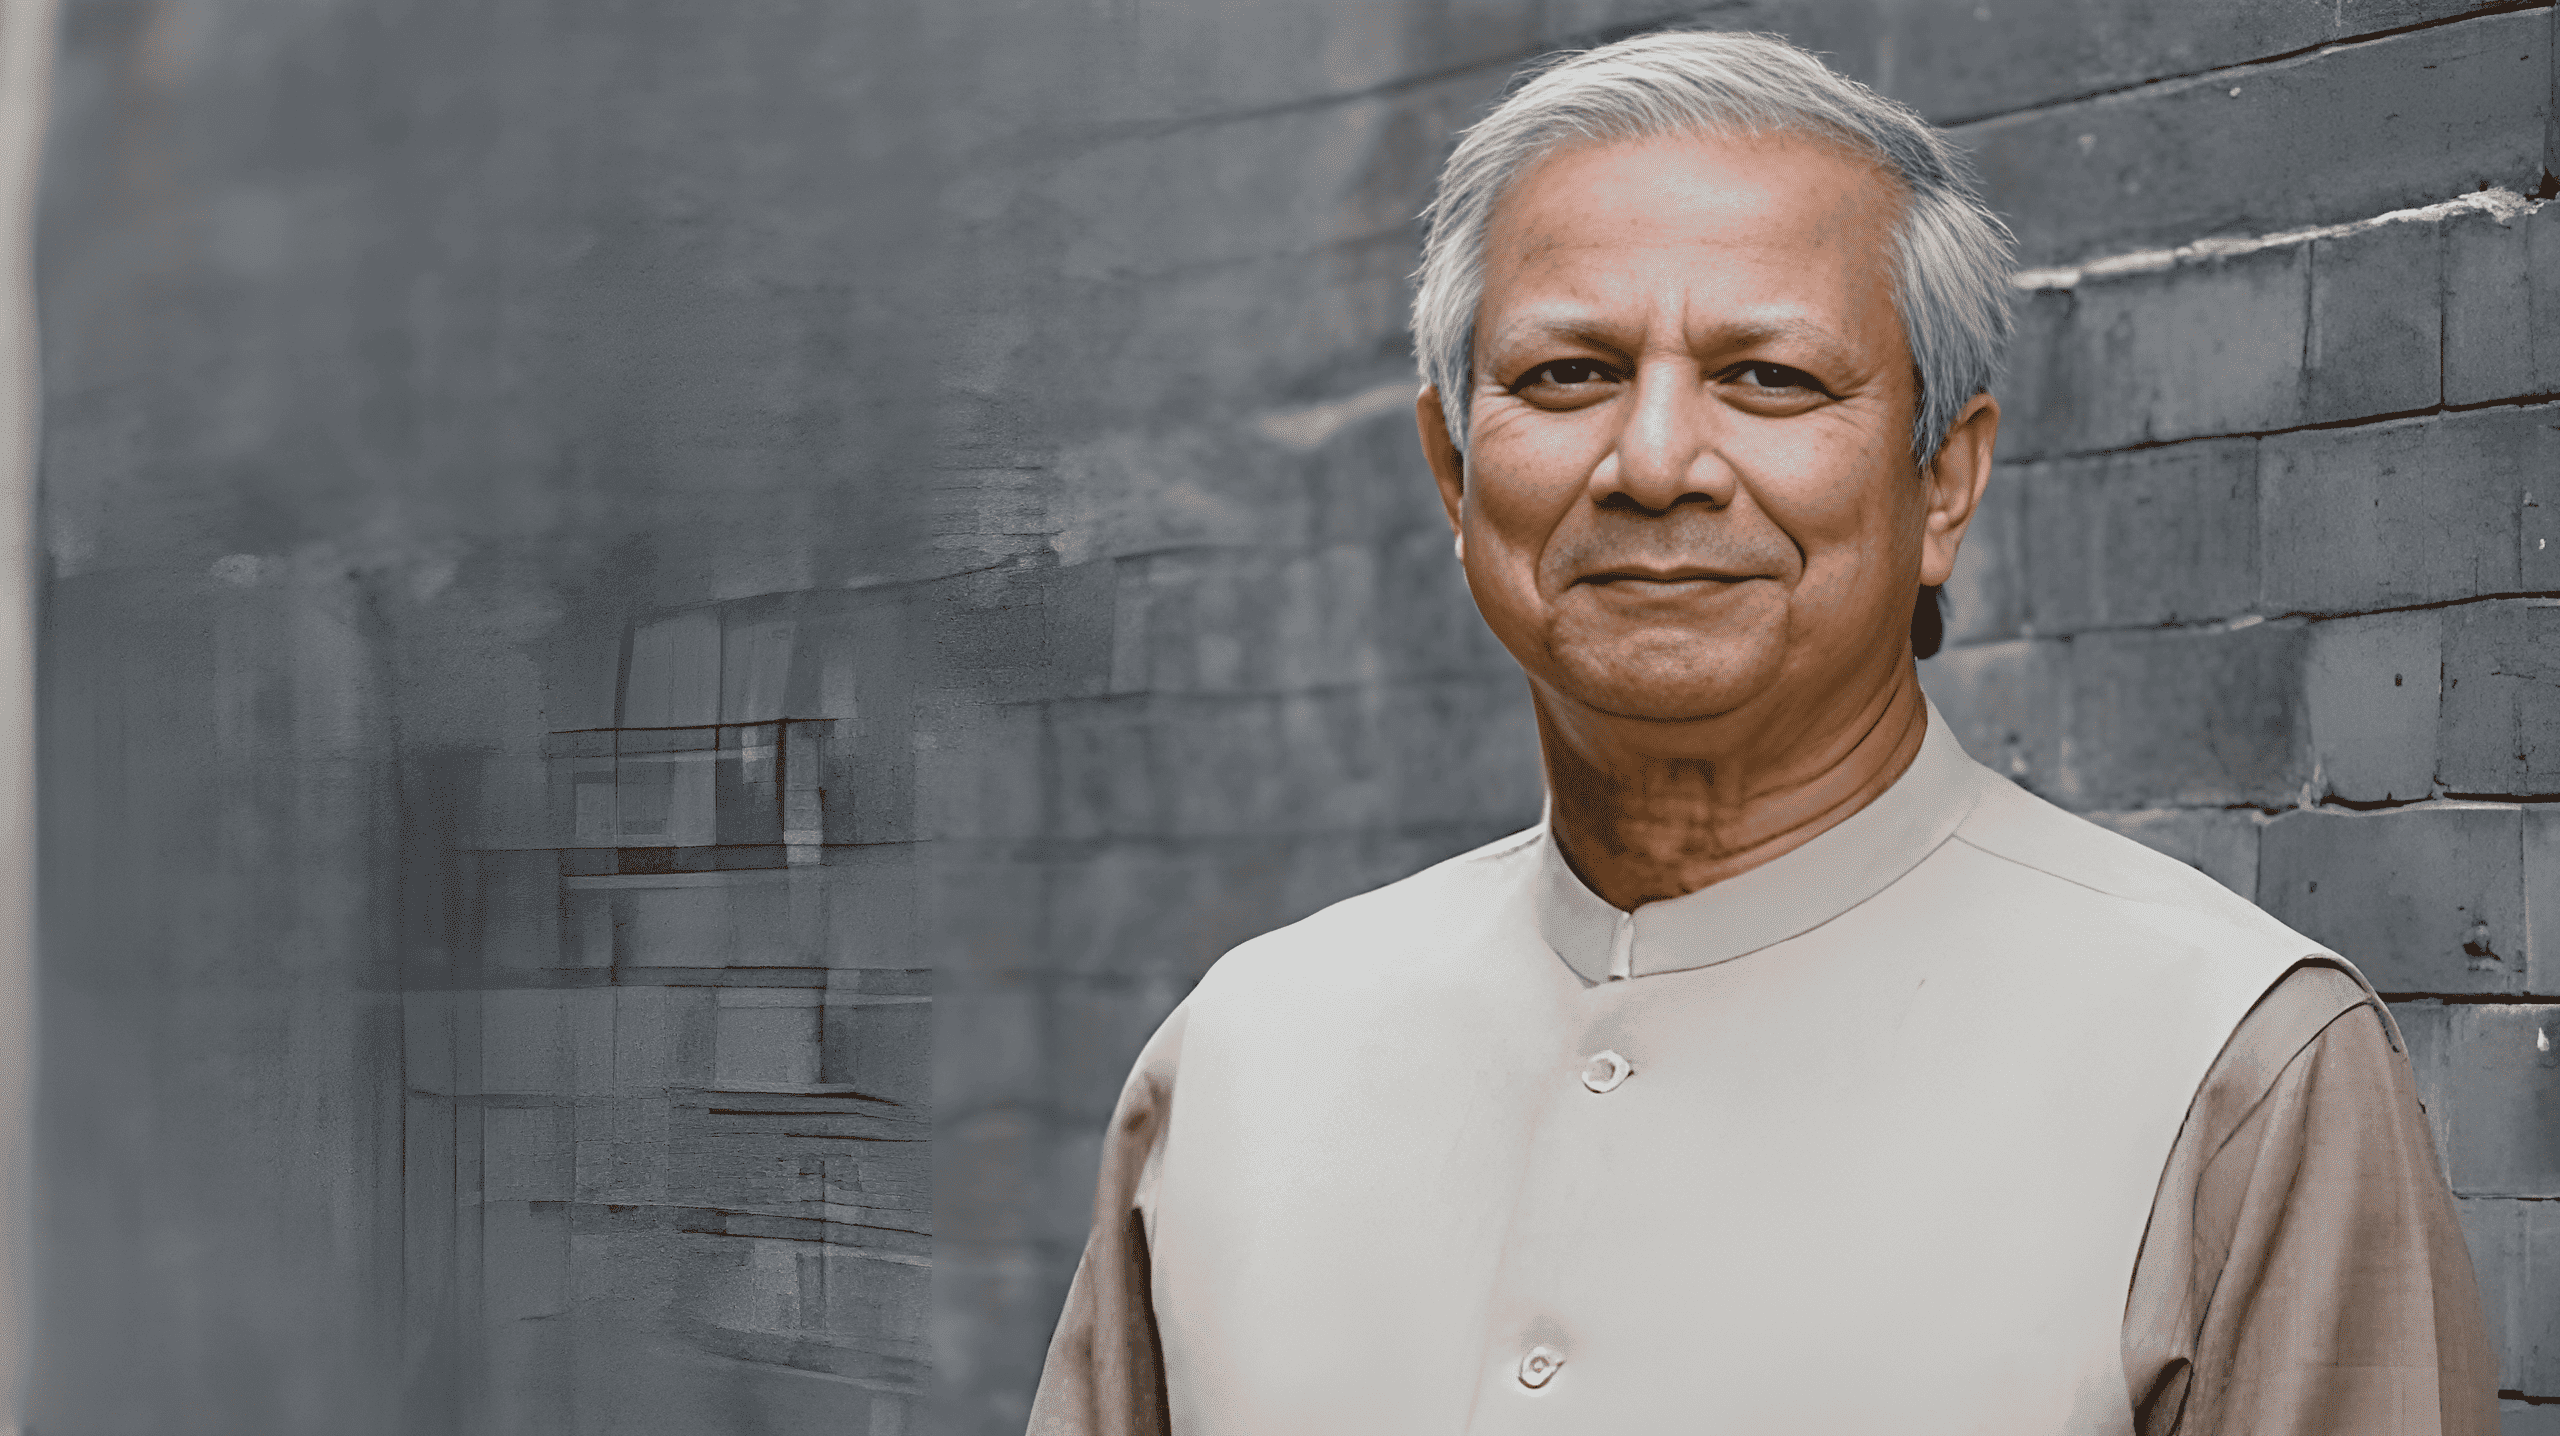
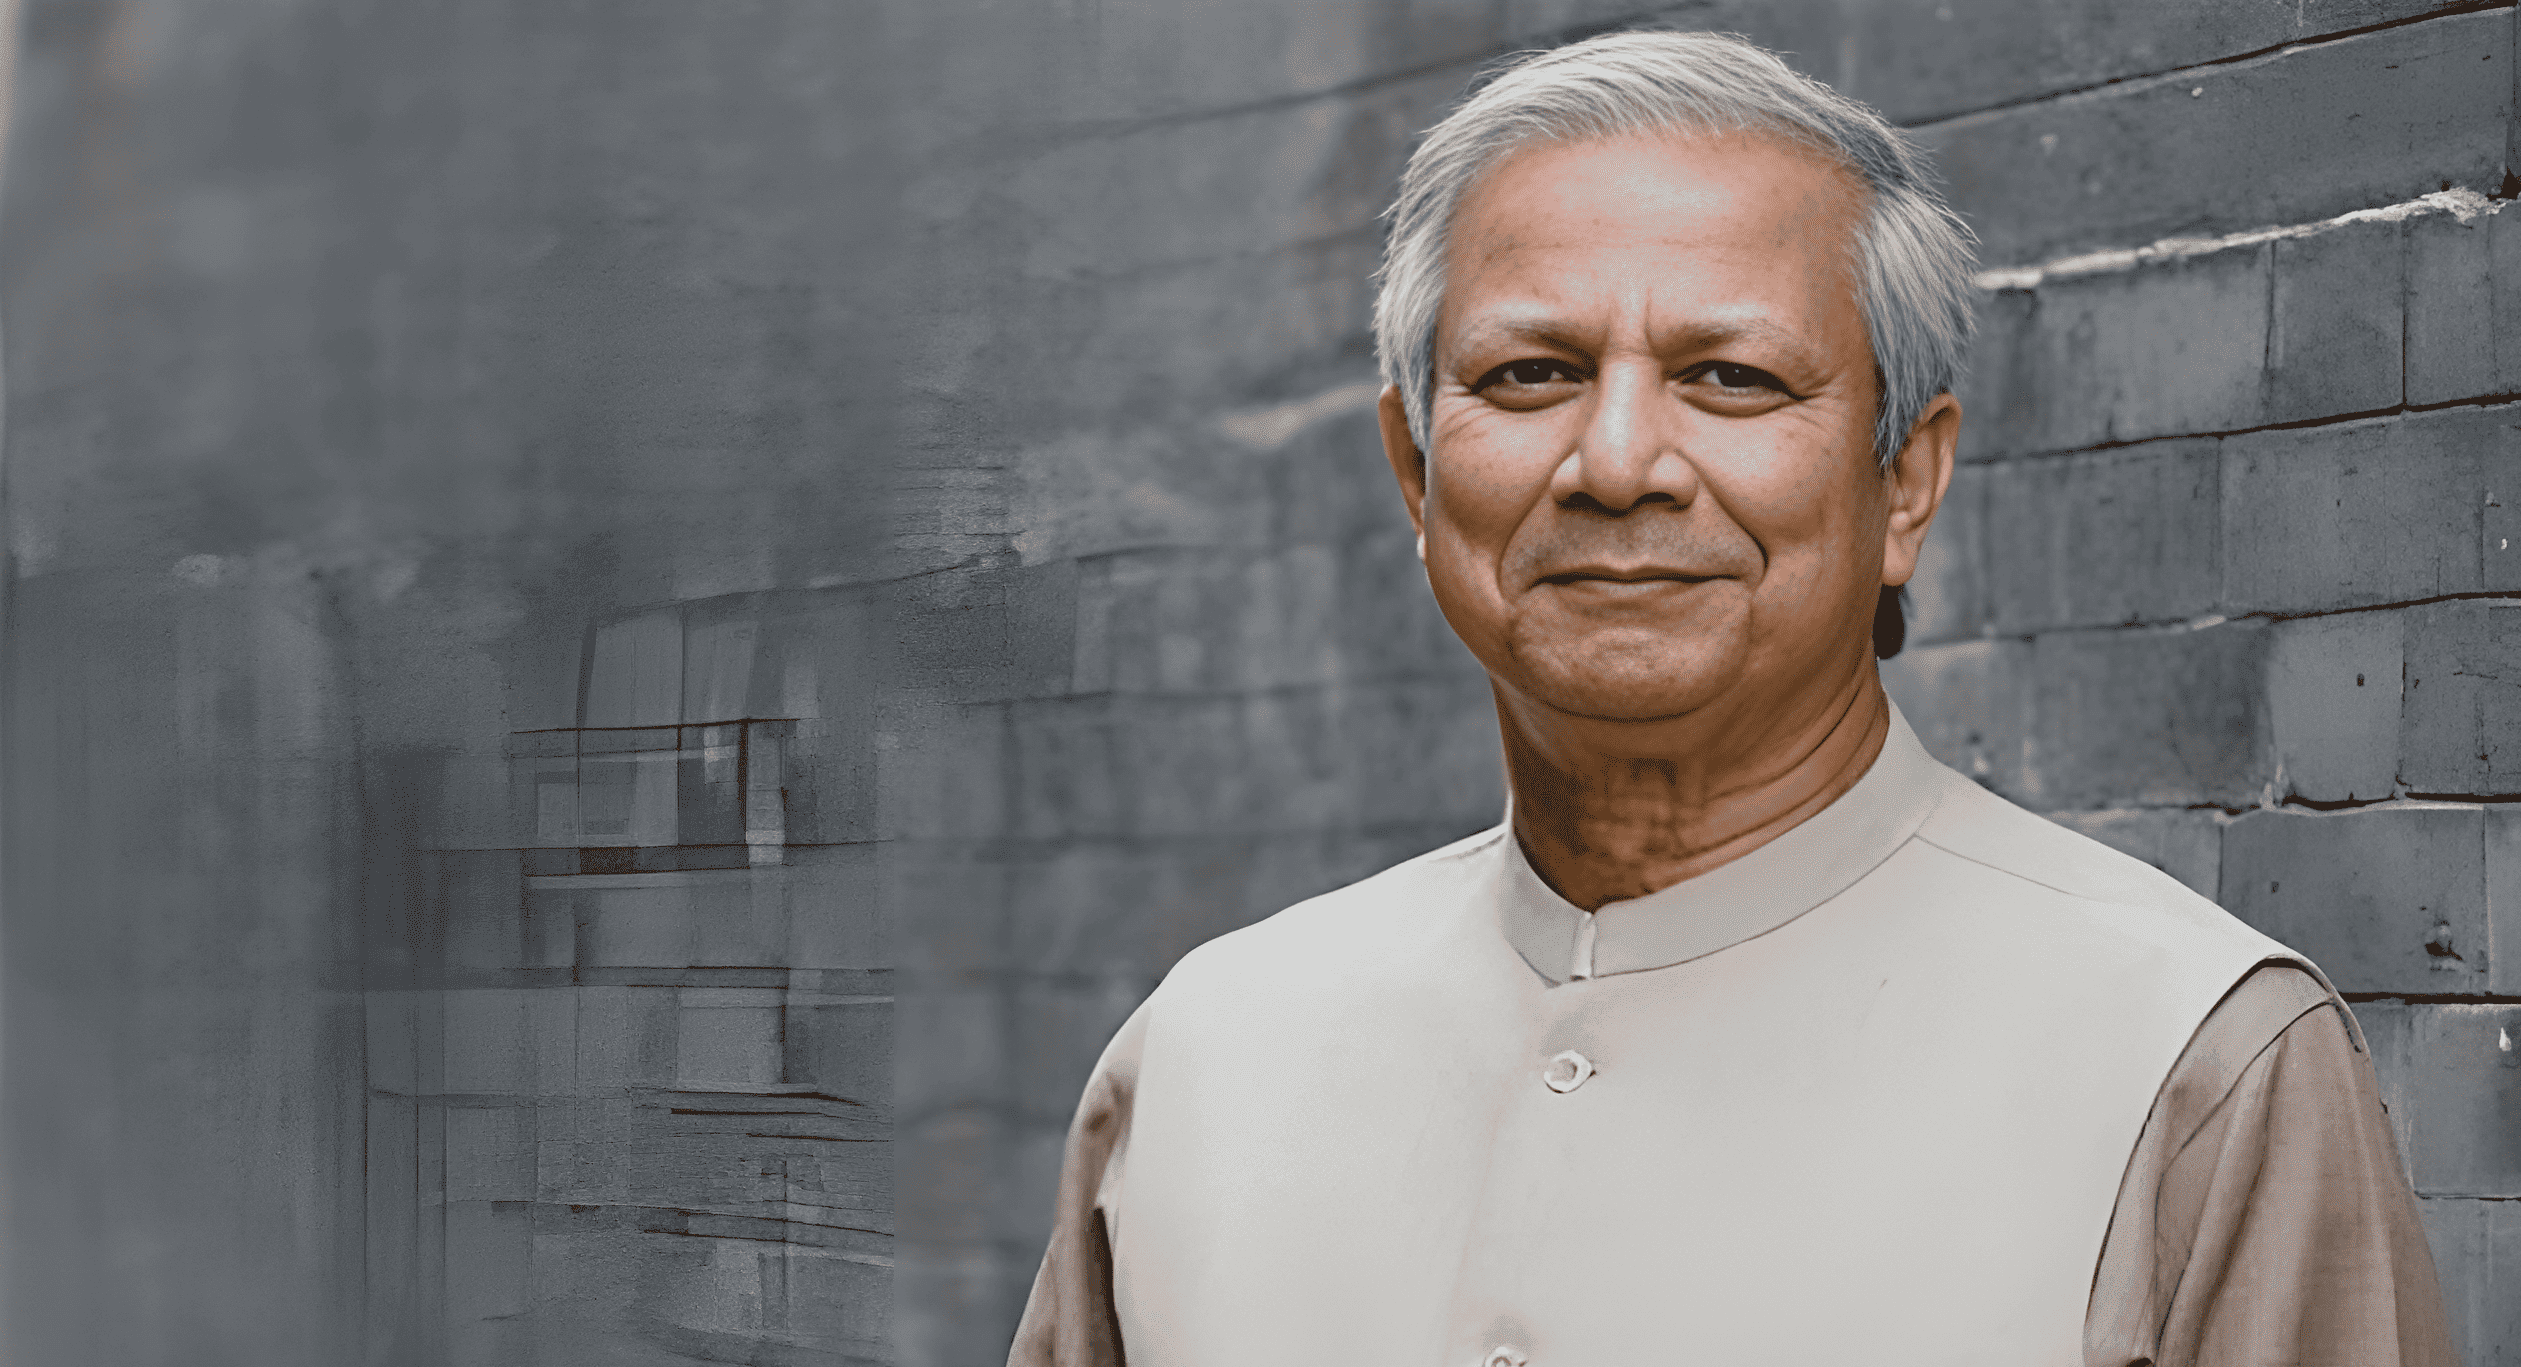
Office image change

diff --git a/components/home/hero-section.tsx b/components/home/hero-section.tsx
@@ -51,7 +51,7 @@ const HeroSection: FC = () => {
 				{slides.map((slide, index) => (
 					<SwiperSlide key={index}>
 						<div className='relative h-screen'>
-							<Image src={slide.image} alt={slide.title} fill className='object-cover' priority />
+							<Image src={slide.image} alt={slide.title} fill className='object-cover object-top' priority />
 							<div className='absolute inset-0'>
 								<div className='absolute inset-0 bg-grid-white/[0.05] bg-[length:50px_50px]' />
 								<div
@@ -108,7 +108,7 @@ const HeroSection: FC = () => {
 					</SwiperSlide>
 				))}
 			</Swiper>
-			<div className='absolute bottom-0 left-0 right-0 h-24 bg-gradient-to-t from-background to-transparent z-10' />
+			<div className='absolute bottom-0 left-0 right-0 h-20 bg-gradient-to-t from-background to-transparent z-10' />
 		</div>
 	);
 };
